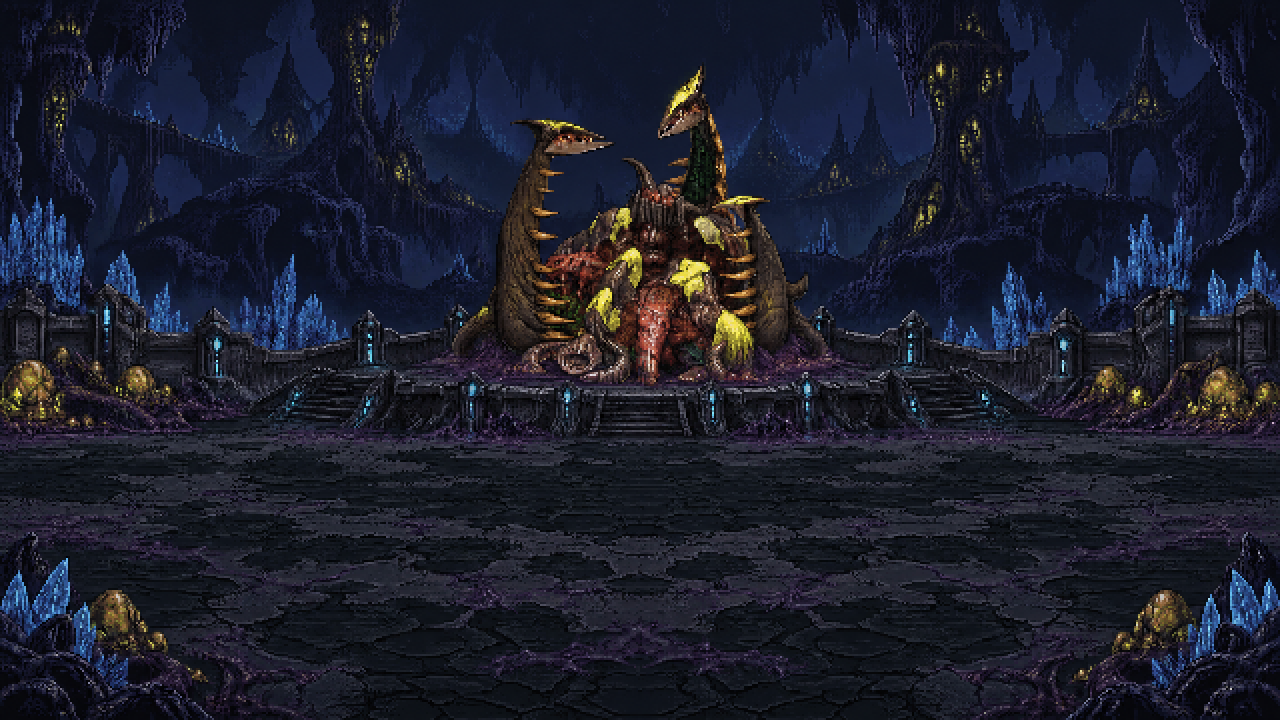
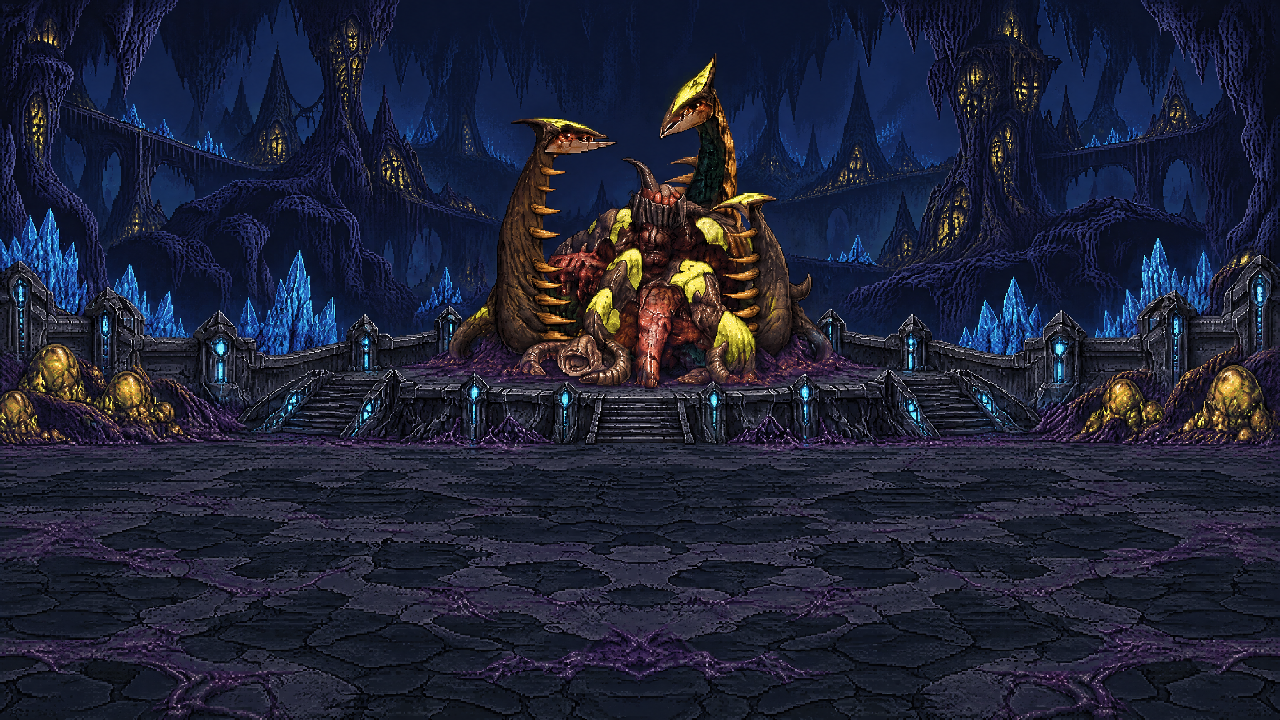
Detail Hatchery and Sproto Ranch with approved reference-based Higgsfield pixel art

diff --git a/src/stage.ts b/src/stage.ts
@@ -1,4 +1,4 @@
-/** Original ranch pixel art, drawn at 320×180 then nearest-neighbor scaled.
+/** Fallback ranch pixel art, drawn at 320×180 then nearest-neighbor scaled.
  * Reference motifs: amber dusk, stone farmhouse, grassy fields, muddy lane,
  * dry-stone boundary and distant weathered farm buildings. No reference pixels,
  * people, text overlays or logos are reused. Purely visual; never changes combat.
@@ -187,7 +187,7 @@ export const STAGES: {id:StageId;name:string;theme:string;accent:string;chapter:
     {id:'bar',name:'Last Light Bar',theme:'The Bar / hidden doorway',accent:'#efaa65',chapter:5},
     {id:'verse',name:'Verse Gate',theme:'The Verse / open every gate',accent:'#ad92f4',chapter:6},
     {id:'hatchery',name:'The Hatchery',theme:'Beyond the portal / alien hive',accent:'#c4d75c',chapter:7},
-    {id:'ranch',name:'Amber Ranch',theme:'Bonus / original ranch',accent:'#efbd7a',chapter:null},
+    {id:'ranch',name:'Sproto Ranch',theme:'Bonus / sunset farmstead',accent:'#efbd7a',chapter:null},
 ];
 let currentStage:StageId='ranch';
 const placeholderScenery=new Map<StageId,HTMLCanvasElement>();
@@ -196,7 +196,7 @@ const stageArtErrors=new Map<StageId,string>();
 let stageArtPromise:Promise<void>|undefined;
 /** Higgsfield scenery from text or environmental references, never fighter atlases. */
 export function loadStageArt():Promise<void>{
-    return stageArtPromise??=Promise.all(STAGES.filter(s=>s.id!=='ranch').map(async stage=>{
+    return stageArtPromise??=Promise.all(STAGES.map(async stage=>{
         const image=new Image();
         try{
             await new Promise<void>((resolve,reject)=>{image.onload=()=>resolve();image.onerror=()=>reject(new Error('Stage image could not load'));image.src=`/stages/higgsfield/${stage.id}.png`;});
@@ -213,12 +213,12 @@ export function drawStagePreview(ctx:CanvasRenderingContext2D,id:StageId,width:n
     const scale=Math.max(width/1280,height/720);
     ctx.save();ctx.beginPath();ctx.rect(0,0,width,height);ctx.clip();
     ctx.translate((width-1280*scale)/2,(height-720*scale)*.6);ctx.scale(scale,scale);ctx.imageSmoothingEnabled=false;
-    if(id==='ranch'){drawRanch(ctx,frame);ctx.restore();return;}
     const art=stageImages.get(id);
     if(art){
         ctx.drawImage(art,0,0,1280,720);
         if(id==='bar')drawBarApron(ctx);
     }
+    else if(id==='ranch'){drawRanch(ctx,frame);}
     else{
         let scene=placeholderScenery.get(id);
         if(!scene){scene=buildPlaceholder(id);placeholderScenery.set(id,scene);}

diff --git a/docs/HATCHERY-RANCH-DETAIL-COORDINATION.md b/docs/HATCHERY-RANCH-DETAIL-COORDINATION.md
@@ -1,0 +1,25 @@
+# Hatchery and Sproto Ranch artwork coordination
+
+Branch: `codex/hatchery-ranch-detail`.
+Workspace: `/Users/kenhiraoka/Documents/Codex/2026-11-02/task-5/sproto-stage-detail`.
+Snapshot baseline: `fd5d2f6b` (contains existing shared game changes, not this task's patch).
+
+## Completed
+
+Original Hatchery and Ranch references were located in the source workspace at `art/hatchery-stage/reference.png` and `art/references/ranch.jpg`, visually inspected, and copied to `art/stage-detail/references/`. Existing stage screenshots were also inspected. The Ranch is currently procedural 320x180 scenery; the Hatchery is a Higgsfield panorama resampled through 640x360. Both references are available; no replacement reference is required.
+
+Two detailed reference-based prompts are in `art/stage-detail/requests.json`. Planned model: Higgsfield GPT Image 2.5 (`gpt_image_2_5`), Sunburst, high quality, 4K, 16:9, one image per arena. Higgsfield cost preflight returned 4.25 exact credits for one image and 8.5 exact credits for two. The user explicitly approved 8.5 credits for both images in this chat. Both jobs completed successfully with those exact parameters; no additional generations or retries were submitted. No story videos were generated.
+
+## Integration ownership
+
+This task changes two stage backgrounds and narrow Ranch image-loader support in `src/stage.ts`. The loader now includes `ranch.png`; menu thumbnails and combat use it, and `drawRanch` remains the fallback on load failure. The display label is now Sproto Ranch; its stable stage ID remains ranch. Both completed 3840x2160 sources were normalized directly to 1280x720 with nearest-neighbor sampling to retain finer detail than the prior 640x360 intermediate. See `art/stage-detail/art-report.json` for provenance and hashes.
+
+Preserve stage IDs and `STORY_STAGE_IDS`: trenches, circuit, yacht, throne, bar, verse, hatchery. Ranch remains a free-play arena. Preserve chapter metadata, 100-encounter assignments, recruitment/unlocks, God Mode and finale gauntlet ownership. The campaign branch `codex/persistent-story-unlocks` owns those behaviors. Combat/roster integration is active at `sproto-integration`; do not overwrite its source files or cherry-pick this snapshot commit wholesale. Review or cherry-pick only the eventual narrow artwork commit after all current tasks finish. No merge to main is authorized during this task.
+
+## Validation
+
+Originals and completed images were visually inspected. Both final arenas were checked in the browser at http://127.0.0.1:5195 in selection and combat with Golden Sproto / Morelight, plus movement to both arena edges. Screenshots are in `docs/evidence/stage-detail/`. Fighters and HUD remain readable, floors and corners are clear, and source overlays are absent. The background stone wall, crystals, eggs and structures remain behind the play space. This was a focused stage-art check, not a full campaign or all-roster combat review. At the right edge both fighters push together; that inherited combat behavior was not changed here.
+
+`npm run check`, `npm run build`, `node scripts/story-stages-smoke.mjs`, and `git diff --check` passed. Stage checks cover all ten raster backgrounds, distinct assets, dimensions, shared preview rendering, canonical seven-stage route and independent Ranch load-failure fallback.
+
+Final art job IDs: Hatchery `27746ff6-7846-4c89-9589-de5c3112a406`; Ranch `0f17148a-66ab-481f-9ed2-db00019d1801`. The source reference upload for Ranch is `2f78b1dc-510a-4061-830c-ec1f69e2599d`; Hatchery reused its confirmed original reference and prior arena for camera guidance. Model, prompts, approval and submission records are in `art/stage-detail/`.
